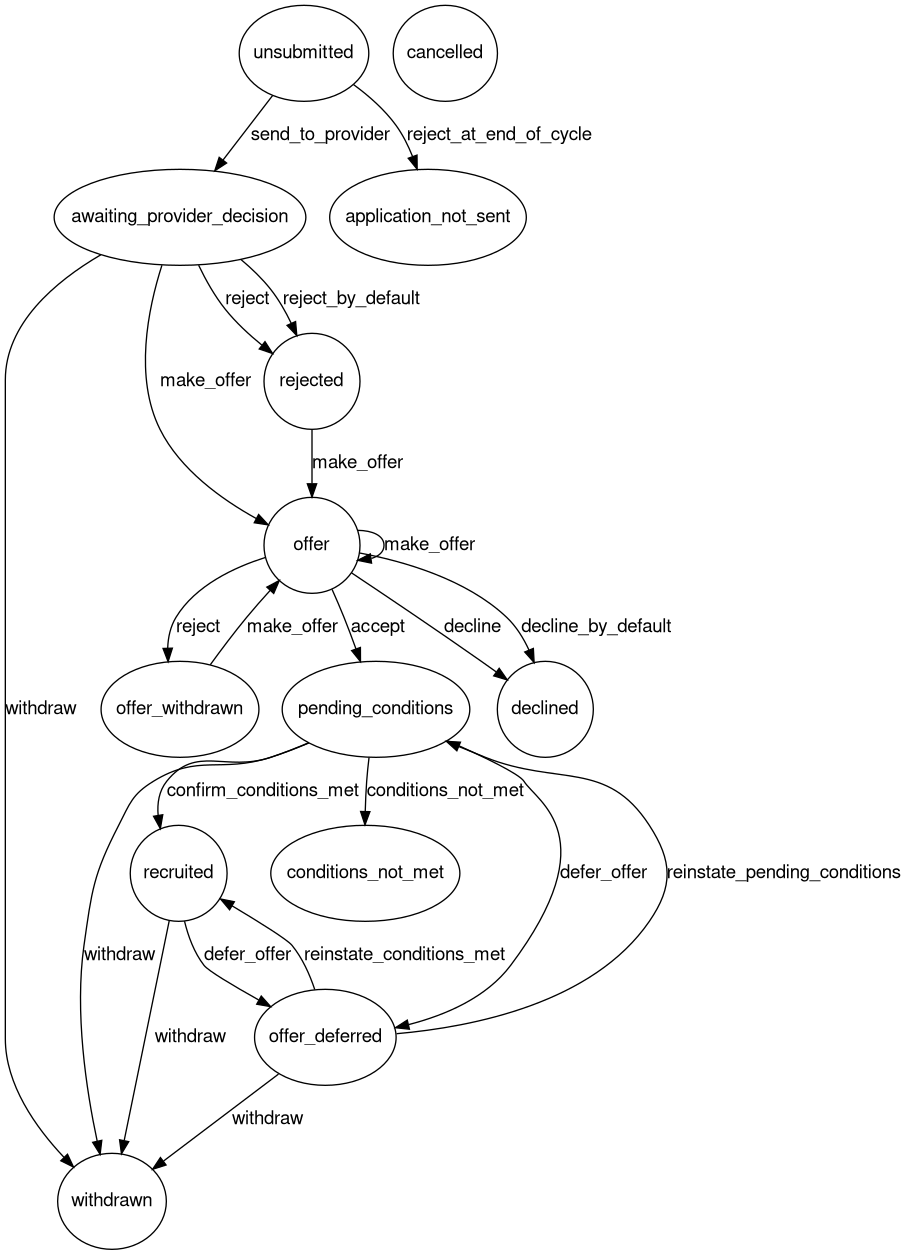
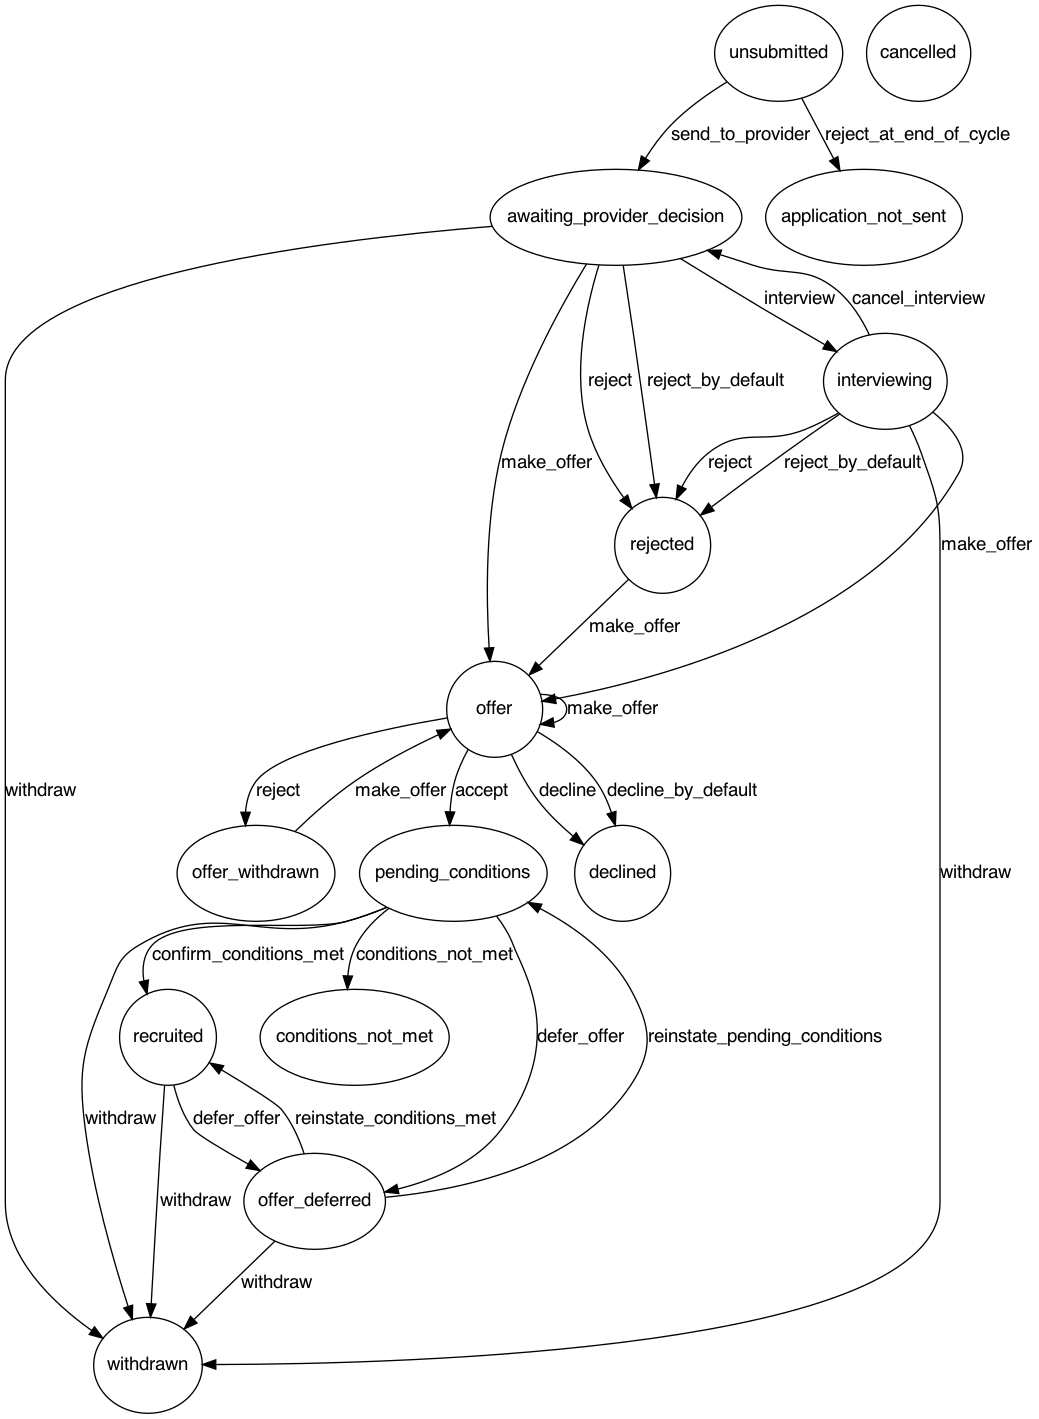
Add events and transitional states to interviewing

diff --git a/app/services/application_state_change.rb b/app/services/application_state_change.rb
@@ -37,7 +37,13 @@ class ApplicationStateChange
       event :interview, transitions_to: :interviewing
     end
 
-    state :interviewing
+    state :interviewing do
+      event :make_offer, transitions_to: :offer
+      event :reject, transitions_to: :rejected
+      event :reject_by_default, transitions_to: :rejected
+      event :withdraw, transitions_to: :withdrawn
+      event :cancel_interview, transitions_to: :awaiting_provider_decision
+    end
 
     state :rejected do
       event :make_offer, transitions_to: :offer
